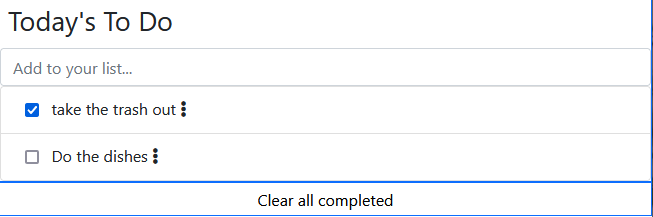
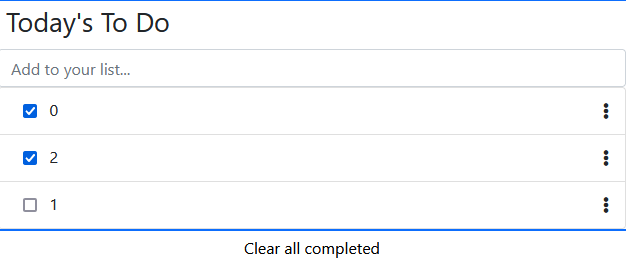
add change event listener

Changed region(s): [[0.0, 0.0, 1.0, 0.9954]]

diff --git a/dist/index.bundle.js b/dist/index.bundle.js
@@ -1,238 +1,1 @@
-/*
- * ATTENTION: The "eval" devtool has been used (maybe by default in mode: "development").
- * This devtool is neither made for production nor for readable output files.
- * It uses "eval()" calls to create a separate source file in the browser devtools.
- * If you are trying to read the output file, select a different devtool (https://webpack.js.org/configuration/devtool/)
- * or disable the default devtool with "devtool: false".
- * If you are looking for production-ready output files, see mode: "production" (https://webpack.js.org/configuration/mode/).
- */
-/******/ (() => { // webpackBootstrap
-/******/ 	"use strict";
-/******/ 	var __webpack_modules__ = ({
-
-/***/ "./node_modules/css-loader/dist/cjs.js!./src/style.css":
-/*!*************************************************************!*\
-  !*** ./node_modules/css-loader/dist/cjs.js!./src/style.css ***!
-  \*************************************************************/
-/***/ ((module, __webpack_exports__, __webpack_require__) => {
-
-eval("__webpack_require__.r(__webpack_exports__);\n/* harmony export */ __webpack_require__.d(__webpack_exports__, {\n/* harmony export */   \"default\": () => (__WEBPACK_DEFAULT_EXPORT__)\n/* harmony export */ });\n/* harmony import */ var _node_modules_css_loader_dist_runtime_api_js__WEBPACK_IMPORTED_MODULE_0__ = __webpack_require__(/*! ../node_modules/css-loader/dist/runtime/api.js */ \"./node_modules/css-loader/dist/runtime/api.js\");\n/* harmony import */ var _node_modules_css_loader_dist_runtime_api_js__WEBPACK_IMPORTED_MODULE_0___default = /*#__PURE__*/__webpack_require__.n(_node_modules_css_loader_dist_runtime_api_js__WEBPACK_IMPORTED_MODULE_0__);\n// Imports\n\nvar ___CSS_LOADER_EXPORT___ = _node_modules_css_loader_dist_runtime_api_js__WEBPACK_IMPORTED_MODULE_0___default()(function(i){return i[1]});\n// Module\n___CSS_LOADER_EXPORT___.push([module.id, \"ul {\\r\\n  list-style-type: none;\\r\\n}\\r\\n\\r\\na {\\r\\n  text-decoration: none;\\r\\n  color: black;\\r\\n}\\r\\n\\r\\n.draggable {\\r\\n  cursor: move;\\r\\n}\\r\\n\\r\\n.hover {\\r\\n  background-color: gray;\\r\\n  opacity: 0.6;\\r\\n}\\r\\n\\r\\n.hover2 {\\r\\n  background-color: blue;\\r\\n  opacity: 0.6;\\r\\n}\", \"\"]);\n// Exports\n/* harmony default export */ const __WEBPACK_DEFAULT_EXPORT__ = (___CSS_LOADER_EXPORT___);\n\n\n//# sourceURL=webpack://todo-list-2.0/./src/style.css?./node_modules/css-loader/dist/cjs.js");
-
-/***/ }),
-
-/***/ "./node_modules/css-loader/dist/runtime/api.js":
-/*!*****************************************************!*\
-  !*** ./node_modules/css-loader/dist/runtime/api.js ***!
-  \*****************************************************/
-/***/ ((module) => {
-
-eval("\n\n/*\n  MIT License http://www.opensource.org/licenses/mit-license.php\n  Author Tobias Koppers @sokra\n*/\n// css base code, injected by the css-loader\n// eslint-disable-next-line func-names\nmodule.exports = function (cssWithMappingToString) {\n  var list = []; // return the list of modules as css string\n\n  list.toString = function toString() {\n    return this.map(function (item) {\n      var content = cssWithMappingToString(item);\n\n      if (item[2]) {\n        return \"@media \".concat(item[2], \" {\").concat(content, \"}\");\n      }\n\n      return content;\n    }).join(\"\");\n  }; // import a list of modules into the list\n  // eslint-disable-next-line func-names\n\n\n  list.i = function (modules, mediaQuery, dedupe) {\n    if (typeof modules === \"string\") {\n      // eslint-disable-next-line no-param-reassign\n      modules = [[null, modules, \"\"]];\n    }\n\n    var alreadyImportedModules = {};\n\n    if (dedupe) {\n      for (var i = 0; i < this.length; i++) {\n        // eslint-disable-next-line prefer-destructuring\n        var id = this[i][0];\n\n        if (id != null) {\n          alreadyImportedModules[id] = true;\n        }\n      }\n    }\n\n    for (var _i = 0; _i < modules.length; _i++) {\n      var item = [].concat(modules[_i]);\n\n      if (dedupe && alreadyImportedModules[item[0]]) {\n        // eslint-disable-next-line no-continue\n        continue;\n      }\n\n      if (mediaQuery) {\n        if (!item[2]) {\n          item[2] = mediaQuery;\n        } else {\n          item[2] = \"\".concat(mediaQuery, \" and \").concat(item[2]);\n        }\n      }\n\n      list.push(item);\n    }\n  };\n\n  return list;\n};\n\n//# sourceURL=webpack://todo-list-2.0/./node_modules/css-loader/dist/runtime/api.js?");
-
-/***/ }),
-
-/***/ "./src/style.css":
-/*!***********************!*\
-  !*** ./src/style.css ***!
-  \***********************/
-/***/ ((__unused_webpack_module, __webpack_exports__, __webpack_require__) => {
-
-eval("__webpack_require__.r(__webpack_exports__);\n/* harmony export */ __webpack_require__.d(__webpack_exports__, {\n/* harmony export */   \"default\": () => (__WEBPACK_DEFAULT_EXPORT__)\n/* harmony export */ });\n/* harmony import */ var _node_modules_style_loader_dist_runtime_injectStylesIntoStyleTag_js__WEBPACK_IMPORTED_MODULE_0__ = __webpack_require__(/*! !../node_modules/style-loader/dist/runtime/injectStylesIntoStyleTag.js */ \"./node_modules/style-loader/dist/runtime/injectStylesIntoStyleTag.js\");\n/* harmony import */ var _node_modules_style_loader_dist_runtime_injectStylesIntoStyleTag_js__WEBPACK_IMPORTED_MODULE_0___default = /*#__PURE__*/__webpack_require__.n(_node_modules_style_loader_dist_runtime_injectStylesIntoStyleTag_js__WEBPACK_IMPORTED_MODULE_0__);\n/* harmony import */ var _node_modules_style_loader_dist_runtime_styleDomAPI_js__WEBPACK_IMPORTED_MODULE_1__ = __webpack_require__(/*! !../node_modules/style-loader/dist/runtime/styleDomAPI.js */ \"./node_modules/style-loader/dist/runtime/styleDomAPI.js\");\n/* harmony import */ var _node_modules_style_loader_dist_runtime_styleDomAPI_js__WEBPACK_IMPORTED_MODULE_1___default = /*#__PURE__*/__webpack_require__.n(_node_modules_style_loader_dist_runtime_styleDomAPI_js__WEBPACK_IMPORTED_MODULE_1__);\n/* harmony import */ var _node_modules_style_loader_dist_runtime_insertBySelector_js__WEBPACK_IMPORTED_MODULE_2__ = __webpack_require__(/*! !../node_modules/style-loader/dist/runtime/insertBySelector.js */ \"./node_modules/style-loader/dist/runtime/insertBySelector.js\");\n/* harmony import */ var _node_modules_style_loader_dist_runtime_insertBySelector_js__WEBPACK_IMPORTED_MODULE_2___default = /*#__PURE__*/__webpack_require__.n(_node_modules_style_loader_dist_runtime_insertBySelector_js__WEBPACK_IMPORTED_MODULE_2__);\n/* harmony import */ var _node_modules_style_loader_dist_runtime_setAttributesWithoutAttributes_js__WEBPACK_IMPORTED_MODULE_3__ = __webpack_require__(/*! !../node_modules/style-loader/dist/runtime/setAttributesWithoutAttributes.js */ \"./node_modules/style-loader/dist/runtime/setAttributesWithoutAttributes.js\");\n/* harmony import */ var _node_modules_style_loader_dist_runtime_setAttributesWithoutAttributes_js__WEBPACK_IMPORTED_MODULE_3___default = /*#__PURE__*/__webpack_require__.n(_node_modules_style_loader_dist_runtime_setAttributesWithoutAttributes_js__WEBPACK_IMPORTED_MODULE_3__);\n/* harmony import */ var _node_modules_style_loader_dist_runtime_insertStyleElement_js__WEBPACK_IMPORTED_MODULE_4__ = __webpack_require__(/*! !../node_modules/style-loader/dist/runtime/insertStyleElement.js */ \"./node_modules/style-loader/dist/runtime/insertStyleElement.js\");\n/* harmony import */ var _node_modules_style_loader_dist_runtime_insertStyleElement_js__WEBPACK_IMPORTED_MODULE_4___default = /*#__PURE__*/__webpack_require__.n(_node_modules_style_loader_dist_runtime_insertStyleElement_js__WEBPACK_IMPORTED_MODULE_4__);\n/* harmony import */ var _node_modules_style_loader_dist_runtime_styleTagTransform_js__WEBPACK_IMPORTED_MODULE_5__ = __webpack_require__(/*! !../node_modules/style-loader/dist/runtime/styleTagTransform.js */ \"./node_modules/style-loader/dist/runtime/styleTagTransform.js\");\n/* harmony import */ var _node_modules_style_loader_dist_runtime_styleTagTransform_js__WEBPACK_IMPORTED_MODULE_5___default = /*#__PURE__*/__webpack_require__.n(_node_modules_style_loader_dist_runtime_styleTagTransform_js__WEBPACK_IMPORTED_MODULE_5__);\n/* harmony import */ var _node_modules_css_loader_dist_cjs_js_style_css__WEBPACK_IMPORTED_MODULE_6__ = __webpack_require__(/*! !!../node_modules/css-loader/dist/cjs.js!./style.css */ \"./node_modules/css-loader/dist/cjs.js!./src/style.css\");\n\n      \n      \n      \n      \n      \n      \n      \n      \n      \n\nvar options = {};\n\noptions.styleTagTransform = (_node_modules_style_loader_dist_runtime_styleTagTransform_js__WEBPACK_IMPORTED_MODULE_5___default());\noptions.setAttributes = (_node_modules_style_loader_dist_runtime_setAttributesWithoutAttributes_js__WEBPACK_IMPORTED_MODULE_3___default());\n\n      options.insert = _node_modules_style_loader_dist_runtime_insertBySelector_js__WEBPACK_IMPORTED_MODULE_2___default().bind(null, \"head\");\n    \noptions.domAPI = (_node_modules_style_loader_dist_runtime_styleDomAPI_js__WEBPACK_IMPORTED_MODULE_1___default());\noptions.insertStyleElement = (_node_modules_style_loader_dist_runtime_insertStyleElement_js__WEBPACK_IMPORTED_MODULE_4___default());\n\nvar update = _node_modules_style_loader_dist_runtime_injectStylesIntoStyleTag_js__WEBPACK_IMPORTED_MODULE_0___default()(_node_modules_css_loader_dist_cjs_js_style_css__WEBPACK_IMPORTED_MODULE_6__.default, options);\n\n\n\n\n       /* harmony default export */ const __WEBPACK_DEFAULT_EXPORT__ = (_node_modules_css_loader_dist_cjs_js_style_css__WEBPACK_IMPORTED_MODULE_6__.default && _node_modules_css_loader_dist_cjs_js_style_css__WEBPACK_IMPORTED_MODULE_6__.default.locals ? _node_modules_css_loader_dist_cjs_js_style_css__WEBPACK_IMPORTED_MODULE_6__.default.locals : undefined);\n\n\n//# sourceURL=webpack://todo-list-2.0/./src/style.css?");
-
-/***/ }),
-
-/***/ "./node_modules/style-loader/dist/runtime/injectStylesIntoStyleTag.js":
-/*!****************************************************************************!*\
-  !*** ./node_modules/style-loader/dist/runtime/injectStylesIntoStyleTag.js ***!
-  \****************************************************************************/
-/***/ ((module) => {
-
-eval("\n\nvar stylesInDom = [];\n\nfunction getIndexByIdentifier(identifier) {\n  var result = -1;\n\n  for (var i = 0; i < stylesInDom.length; i++) {\n    if (stylesInDom[i].identifier === identifier) {\n      result = i;\n      break;\n    }\n  }\n\n  return result;\n}\n\nfunction modulesToDom(list, options) {\n  var idCountMap = {};\n  var identifiers = [];\n\n  for (var i = 0; i < list.length; i++) {\n    var item = list[i];\n    var id = options.base ? item[0] + options.base : item[0];\n    var count = idCountMap[id] || 0;\n    var identifier = \"\".concat(id, \" \").concat(count);\n    idCountMap[id] = count + 1;\n    var index = getIndexByIdentifier(identifier);\n    var obj = {\n      css: item[1],\n      media: item[2],\n      sourceMap: item[3]\n    };\n\n    if (index !== -1) {\n      stylesInDom[index].references++;\n      stylesInDom[index].updater(obj);\n    } else {\n      stylesInDom.push({\n        identifier: identifier,\n        updater: addStyle(obj, options),\n        references: 1\n      });\n    }\n\n    identifiers.push(identifier);\n  }\n\n  return identifiers;\n}\n\nfunction addStyle(obj, options) {\n  var api = options.domAPI(options);\n  api.update(obj);\n  return function updateStyle(newObj) {\n    if (newObj) {\n      if (newObj.css === obj.css && newObj.media === obj.media && newObj.sourceMap === obj.sourceMap) {\n        return;\n      }\n\n      api.update(obj = newObj);\n    } else {\n      api.remove();\n    }\n  };\n}\n\nmodule.exports = function (list, options) {\n  options = options || {};\n  list = list || [];\n  var lastIdentifiers = modulesToDom(list, options);\n  return function update(newList) {\n    newList = newList || [];\n\n    for (var i = 0; i < lastIdentifiers.length; i++) {\n      var identifier = lastIdentifiers[i];\n      var index = getIndexByIdentifier(identifier);\n      stylesInDom[index].references--;\n    }\n\n    var newLastIdentifiers = modulesToDom(newList, options);\n\n    for (var _i = 0; _i < lastIdentifiers.length; _i++) {\n      var _identifier = lastIdentifiers[_i];\n\n      var _index = getIndexByIdentifier(_identifier);\n\n      if (stylesInDom[_index].references === 0) {\n        stylesInDom[_index].updater();\n\n        stylesInDom.splice(_index, 1);\n      }\n    }\n\n    lastIdentifiers = newLastIdentifiers;\n  };\n};\n\n//# sourceURL=webpack://todo-list-2.0/./node_modules/style-loader/dist/runtime/injectStylesIntoStyleTag.js?");
-
-/***/ }),
-
-/***/ "./node_modules/style-loader/dist/runtime/insertBySelector.js":
-/*!********************************************************************!*\
-  !*** ./node_modules/style-loader/dist/runtime/insertBySelector.js ***!
-  \********************************************************************/
-/***/ ((module) => {
-
-eval("\n\nvar memo = {};\n/* istanbul ignore next  */\n\nfunction getTarget(target) {\n  if (typeof memo[target] === \"undefined\") {\n    var styleTarget = document.querySelector(target); // Special case to return head of iframe instead of iframe itself\n\n    if (window.HTMLIFrameElement && styleTarget instanceof window.HTMLIFrameElement) {\n      try {\n        // This will throw an exception if access to iframe is blocked\n        // due to cross-origin restrictions\n        styleTarget = styleTarget.contentDocument.head;\n      } catch (e) {\n        // istanbul ignore next\n        styleTarget = null;\n      }\n    }\n\n    memo[target] = styleTarget;\n  }\n\n  return memo[target];\n}\n/* istanbul ignore next  */\n\n\nfunction insertBySelector(insert, style) {\n  var target = getTarget(insert);\n\n  if (!target) {\n    throw new Error(\"Couldn't find a style target. This probably means that the value for the 'insert' parameter is invalid.\");\n  }\n\n  target.appendChild(style);\n}\n\nmodule.exports = insertBySelector;\n\n//# sourceURL=webpack://todo-list-2.0/./node_modules/style-loader/dist/runtime/insertBySelector.js?");
-
-/***/ }),
-
-/***/ "./node_modules/style-loader/dist/runtime/insertStyleElement.js":
-/*!**********************************************************************!*\
-  !*** ./node_modules/style-loader/dist/runtime/insertStyleElement.js ***!
-  \**********************************************************************/
-/***/ ((module) => {
-
-eval("\n\n/* istanbul ignore next  */\nfunction insertStyleElement(options) {\n  var style = document.createElement(\"style\");\n  options.setAttributes(style, options.attributes);\n  options.insert(style);\n  return style;\n}\n\nmodule.exports = insertStyleElement;\n\n//# sourceURL=webpack://todo-list-2.0/./node_modules/style-loader/dist/runtime/insertStyleElement.js?");
-
-/***/ }),
-
-/***/ "./node_modules/style-loader/dist/runtime/setAttributesWithoutAttributes.js":
-/*!**********************************************************************************!*\
-  !*** ./node_modules/style-loader/dist/runtime/setAttributesWithoutAttributes.js ***!
-  \**********************************************************************************/
-/***/ ((module, __unused_webpack_exports, __webpack_require__) => {
-
-eval("\n\n/* istanbul ignore next  */\nfunction setAttributesWithoutAttributes(style) {\n  var nonce =  true ? __webpack_require__.nc : 0;\n\n  if (nonce) {\n    style.setAttribute(\"nonce\", nonce);\n  }\n}\n\nmodule.exports = setAttributesWithoutAttributes;\n\n//# sourceURL=webpack://todo-list-2.0/./node_modules/style-loader/dist/runtime/setAttributesWithoutAttributes.js?");
-
-/***/ }),
-
-/***/ "./node_modules/style-loader/dist/runtime/styleDomAPI.js":
-/*!***************************************************************!*\
-  !*** ./node_modules/style-loader/dist/runtime/styleDomAPI.js ***!
-  \***************************************************************/
-/***/ ((module) => {
-
-eval("\n\n/* istanbul ignore next  */\nfunction apply(style, options, obj) {\n  var css = obj.css;\n  var media = obj.media;\n  var sourceMap = obj.sourceMap;\n\n  if (media) {\n    style.setAttribute(\"media\", media);\n  } else {\n    style.removeAttribute(\"media\");\n  }\n\n  if (sourceMap && typeof btoa !== \"undefined\") {\n    css += \"\\n/*# sourceMappingURL=data:application/json;base64,\".concat(btoa(unescape(encodeURIComponent(JSON.stringify(sourceMap)))), \" */\");\n  } // For old IE\n\n  /* istanbul ignore if  */\n\n\n  options.styleTagTransform(css, style);\n}\n\nfunction removeStyleElement(style) {\n  // istanbul ignore if\n  if (style.parentNode === null) {\n    return false;\n  }\n\n  style.parentNode.removeChild(style);\n}\n/* istanbul ignore next  */\n\n\nfunction domAPI(options) {\n  var style = options.insertStyleElement(options);\n  return {\n    update: function update(obj) {\n      apply(style, options, obj);\n    },\n    remove: function remove() {\n      removeStyleElement(style);\n    }\n  };\n}\n\nmodule.exports = domAPI;\n\n//# sourceURL=webpack://todo-list-2.0/./node_modules/style-loader/dist/runtime/styleDomAPI.js?");
-
-/***/ }),
-
-/***/ "./node_modules/style-loader/dist/runtime/styleTagTransform.js":
-/*!*********************************************************************!*\
-  !*** ./node_modules/style-loader/dist/runtime/styleTagTransform.js ***!
-  \*********************************************************************/
-/***/ ((module) => {
-
-eval("\n\n/* istanbul ignore next  */\nfunction styleTagTransform(css, style) {\n  if (style.styleSheet) {\n    style.styleSheet.cssText = css;\n  } else {\n    while (style.firstChild) {\n      style.removeChild(style.firstChild);\n    }\n\n    style.appendChild(document.createTextNode(css));\n  }\n}\n\nmodule.exports = styleTagTransform;\n\n//# sourceURL=webpack://todo-list-2.0/./node_modules/style-loader/dist/runtime/styleTagTransform.js?");
-
-/***/ }),
-
-/***/ "./src/index.js":
-/*!**********************!*\
-  !*** ./src/index.js ***!
-  \**********************/
-/***/ ((__unused_webpack_module, __webpack_exports__, __webpack_require__) => {
-
-eval("__webpack_require__.r(__webpack_exports__);\n/* harmony import */ var _style_css__WEBPACK_IMPORTED_MODULE_0__ = __webpack_require__(/*! ./style.css */ \"./src/style.css\");\n/* harmony import */ var _modules_localstorage_js__WEBPACK_IMPORTED_MODULE_1__ = __webpack_require__(/*! ./modules/localstorage.js */ \"./src/modules/localstorage.js\");\n/* harmony import */ var _modules_EnterEvent_js__WEBPACK_IMPORTED_MODULE_2__ = __webpack_require__(/*! ./modules/EnterEvent.js */ \"./src/modules/EnterEvent.js\");\n\n\n\n\n(0,_modules_localstorage_js__WEBPACK_IMPORTED_MODULE_1__.getLocalstorage)();\n(0,_modules_EnterEvent_js__WEBPACK_IMPORTED_MODULE_2__.default)();\n\n//# sourceURL=webpack://todo-list-2.0/./src/index.js?");
-
-/***/ }),
-
-/***/ "./src/modules/EnterEvent.js":
-/*!***********************************!*\
-  !*** ./src/modules/EnterEvent.js ***!
-  \***********************************/
-/***/ ((__unused_webpack_module, __webpack_exports__, __webpack_require__) => {
-
-eval("__webpack_require__.r(__webpack_exports__);\n/* harmony export */ __webpack_require__.d(__webpack_exports__, {\n/* harmony export */   \"default\": () => (__WEBPACK_DEFAULT_EXPORT__)\n/* harmony export */ });\n/* harmony import */ var _showTasks_js__WEBPACK_IMPORTED_MODULE_0__ = __webpack_require__(/*! ./showTasks.js */ \"./src/modules/showTasks.js\");\n/* harmony import */ var _localstorage_js__WEBPACK_IMPORTED_MODULE_1__ = __webpack_require__(/*! ./localstorage.js */ \"./src/modules/localstorage.js\");\n/* harmony import */ var _taskClass_js__WEBPACK_IMPORTED_MODULE_2__ = __webpack_require__(/*! ./taskClass.js */ \"./src/modules/taskClass.js\");\n\n\n\n\nconst EnterEvent = () => {\n  const inputSelector = document.querySelector('#inputTask');\n\n  inputSelector.addEventListener('keypress', (e) => {\n    if (e.key === 'Enter') {\n      const task = new _taskClass_js__WEBPACK_IMPORTED_MODULE_2__.Task(inputSelector.value);\n      _taskClass_js__WEBPACK_IMPORTED_MODULE_2__.taskList.push(task);\n      (0,_showTasks_js__WEBPACK_IMPORTED_MODULE_0__.default)();\n      (0,_localstorage_js__WEBPACK_IMPORTED_MODULE_1__.saveLocalstorage)();\n      inputSelector.value = '';\n    }\n  });\n};\n\n/* harmony default export */ const __WEBPACK_DEFAULT_EXPORT__ = (EnterEvent);\n\n//# sourceURL=webpack://todo-list-2.0/./src/modules/EnterEvent.js?");
-
-/***/ }),
-
-/***/ "./src/modules/localstorage.js":
-/*!*************************************!*\
-  !*** ./src/modules/localstorage.js ***!
-  \*************************************/
-/***/ ((__unused_webpack_module, __webpack_exports__, __webpack_require__) => {
-
-eval("__webpack_require__.r(__webpack_exports__);\n/* harmony export */ __webpack_require__.d(__webpack_exports__, {\n/* harmony export */   \"getLocalstorage\": () => (/* binding */ getLocalstorage),\n/* harmony export */   \"saveLocalstorage\": () => (/* binding */ saveLocalstorage)\n/* harmony export */ });\n/* harmony import */ var _taskClass_js__WEBPACK_IMPORTED_MODULE_0__ = __webpack_require__(/*! ./taskClass.js */ \"./src/modules/taskClass.js\");\n/* harmony import */ var _showTasks_js__WEBPACK_IMPORTED_MODULE_1__ = __webpack_require__(/*! ./showTasks.js */ \"./src/modules/showTasks.js\");\n/* eslint-disable no-unused-vars */\n\n\n\nconst saveLocalstorage = () => {\n  localStorage.setItem('taskListKey', JSON.stringify(_taskClass_js__WEBPACK_IMPORTED_MODULE_0__.taskList));\n};\n\nconst getLocalstorage = () => {\n  if (localStorage.getItem('taskListKey')) {\n    const getBooks = JSON.parse(localStorage.getItem('taskListKey'));\n    getBooks.forEach((t) => {\n      _taskClass_js__WEBPACK_IMPORTED_MODULE_0__.taskList.push(t);\n    });\n    (0,_showTasks_js__WEBPACK_IMPORTED_MODULE_1__.default)();\n  }\n};\n\n\n\n//# sourceURL=webpack://todo-list-2.0/./src/modules/localstorage.js?");
-
-/***/ }),
-
-/***/ "./src/modules/showTasks.js":
-/*!**********************************!*\
-  !*** ./src/modules/showTasks.js ***!
-  \**********************************/
-/***/ ((__unused_webpack_module, __webpack_exports__, __webpack_require__) => {
-
-eval("__webpack_require__.r(__webpack_exports__);\n/* harmony export */ __webpack_require__.d(__webpack_exports__, {\n/* harmony export */   \"default\": () => (__WEBPACK_DEFAULT_EXPORT__)\n/* harmony export */ });\n/* harmony import */ var _taskClass_js__WEBPACK_IMPORTED_MODULE_0__ = __webpack_require__(/*! ./taskClass.js */ \"./src/modules/taskClass.js\");\n/* harmony import */ var _sort_js__WEBPACK_IMPORTED_MODULE_1__ = __webpack_require__(/*! ./sort.js */ \"./src/modules/sort.js\");\n/* eslint-disable import/no-cycle */\n\n\n\nconst showTasks = () => {\n  const ulSelector = document.querySelector('#taskUl');\n  ulSelector.innerHTML = '';\n  _taskClass_js__WEBPACK_IMPORTED_MODULE_0__.taskList.forEach((e) => {\n    const li = document.createElement('li');\n    if (e.completed === true) {\n      li.innerHTML = `\n      <div>\n      <input class=\"checkbox m-2\" type=\"checkbox\" id=\"${e.index} checked\">\n      <label for=\"${e.index}\">${e.description}</label>\n      </div>\n      <i class=\"fas fa-ellipsis-v\" ></i>\n      `;\n    } else {\n      li.innerHTML = `\n      <div>\n      <input class=\"checkbox m-2\" type=\"checkbox\" id=\"${e.index}\">\n      <label for=\"${e.index}\">${e.description}</label>\n      </div>\n      <i class=\"fas fa-ellipsis-v\" ></i>\n      `;\n    }\n    li.classList.add('list-group-item', 'draggable', 'droppable', 'd-flex', 'justify-content-between', 'align-items-center');\n    li.setAttribute('draggable', 'true');\n    ulSelector.appendChild(li);\n  });\n  (0,_sort_js__WEBPACK_IMPORTED_MODULE_1__.default)();\n};\n\n/* harmony default export */ const __WEBPACK_DEFAULT_EXPORT__ = (showTasks);\n\n\n//# sourceURL=webpack://todo-list-2.0/./src/modules/showTasks.js?");
-
-/***/ }),
-
-/***/ "./src/modules/sort.js":
-/*!*****************************!*\
-  !*** ./src/modules/sort.js ***!
-  \*****************************/
-/***/ ((__unused_webpack_module, __webpack_exports__, __webpack_require__) => {
-
-eval("__webpack_require__.r(__webpack_exports__);\n/* harmony export */ __webpack_require__.d(__webpack_exports__, {\n/* harmony export */   \"default\": () => (__WEBPACK_DEFAULT_EXPORT__)\n/* harmony export */ });\n/* harmony import */ var _localstorage_js__WEBPACK_IMPORTED_MODULE_0__ = __webpack_require__(/*! ./localstorage.js */ \"./src/modules/localstorage.js\");\n/* harmony import */ var _taskClass_js__WEBPACK_IMPORTED_MODULE_1__ = __webpack_require__(/*! ./taskClass.js */ \"./src/modules/taskClass.js\");\n/* harmony import */ var _showTasks_js__WEBPACK_IMPORTED_MODULE_2__ = __webpack_require__(/*! ./showTasks.js */ \"./src/modules/showTasks.js\");\n/* eslint-disable import/no-cycle */\n/* eslint-disable no-console */\n\n\n\n\nconst sorting = () => {\n  const draggables = document.querySelectorAll('.draggable');\n  let dragged = null;\n  let dropped = null;\n  draggables.forEach((e) => {\n    e.addEventListener('dragstart', () => {\n      e.classList.add('hover');\n      dragged = e.children[0].children[0].id;\n    });\n\n    e.addEventListener('dragend', () => {\n      e.classList.remove('hover');\n    });\n\n    e.addEventListener('dragenter', (event) => {\n      if (dragged !== event.target) { e.classList.add('hover2'); }\n    });\n\n    e.addEventListener('dragleave', () => {\n      e.classList.remove('hover2');\n    });\n\n    e.addEventListener('dragover', (event) => {\n      event.preventDefault();\n    });\n\n    e.addEventListener('drop', () => {\n      e.classList.remove('hover2');\n      dropped = e.children[0].children[0].id;\n      const swap = (arr, draggedIndex, droppedIndex) => {\n        const temp = arr[droppedIndex].description;\n        arr[droppedIndex].description = arr[draggedIndex].description;\n        arr[draggedIndex].description = temp;\n        const temp2 = arr[droppedIndex].completed;\n        arr[droppedIndex].completed = arr[draggedIndex].completed;\n        arr[draggedIndex].completed = temp2;\n        (0,_showTasks_js__WEBPACK_IMPORTED_MODULE_2__.default)();\n        (0,_localstorage_js__WEBPACK_IMPORTED_MODULE_0__.saveLocalstorage)();\n      };\n      if (dragged !== dropped) {\n        if (e.classList.contains('droppable')) {\n          swap(_taskClass_js__WEBPACK_IMPORTED_MODULE_1__.taskList, dragged, dropped);\n        }\n      }\n    });\n  });\n};\n\n/* harmony default export */ const __WEBPACK_DEFAULT_EXPORT__ = (sorting);\n\n//# sourceURL=webpack://todo-list-2.0/./src/modules/sort.js?");
-
-/***/ }),
-
-/***/ "./src/modules/taskClass.js":
-/*!**********************************!*\
-  !*** ./src/modules/taskClass.js ***!
-  \**********************************/
-/***/ ((__unused_webpack_module, __webpack_exports__, __webpack_require__) => {
-
-eval("__webpack_require__.r(__webpack_exports__);\n/* harmony export */ __webpack_require__.d(__webpack_exports__, {\n/* harmony export */   \"taskList\": () => (/* binding */ taskList),\n/* harmony export */   \"Task\": () => (/* binding */ Task)\n/* harmony export */ });\nconst taskList = [];\n\nclass Task {\n  constructor(description, completed = false, index = taskList.length) {\n    this.description = description;\n    this.completed = completed;\n    this.index = index;\n  }\n}\n\n\n\n//# sourceURL=webpack://todo-list-2.0/./src/modules/taskClass.js?");
-
-/***/ })
-
-/******/ 	});
-/************************************************************************/
-/******/ 	// The module cache
-/******/ 	var __webpack_module_cache__ = {};
-/******/ 	
-/******/ 	// The require function
-/******/ 	function __webpack_require__(moduleId) {
-/******/ 		// Check if module is in cache
-/******/ 		var cachedModule = __webpack_module_cache__[moduleId];
-/******/ 		if (cachedModule !== undefined) {
-/******/ 			return cachedModule.exports;
-/******/ 		}
-/******/ 		// Create a new module (and put it into the cache)
-/******/ 		var module = __webpack_module_cache__[moduleId] = {
-/******/ 			id: moduleId,
-/******/ 			// no module.loaded needed
-/******/ 			exports: {}
-/******/ 		};
-/******/ 	
-/******/ 		// Execute the module function
-/******/ 		__webpack_modules__[moduleId](module, module.exports, __webpack_require__);
-/******/ 	
-/******/ 		// Return the exports of the module
-/******/ 		return module.exports;
-/******/ 	}
-/******/ 	
-/************************************************************************/
-/******/ 	/* webpack/runtime/compat get default export */
-/******/ 	(() => {
-/******/ 		// getDefaultExport function for compatibility with non-harmony modules
-/******/ 		__webpack_require__.n = (module) => {
-/******/ 			var getter = module && module.__esModule ?
-/******/ 				() => (module['default']) :
-/******/ 				() => (module);
-/******/ 			__webpack_require__.d(getter, { a: getter });
-/******/ 			return getter;
-/******/ 		};
-/******/ 	})();
-/******/ 	
-/******/ 	/* webpack/runtime/define property getters */
-/******/ 	(() => {
-/******/ 		// define getter functions for harmony exports
-/******/ 		__webpack_require__.d = (exports, definition) => {
-/******/ 			for(var key in definition) {
-/******/ 				if(__webpack_require__.o(definition, key) && !__webpack_require__.o(exports, key)) {
-/******/ 					Object.defineProperty(exports, key, { enumerable: true, get: definition[key] });
-/******/ 				}
-/******/ 			}
-/******/ 		};
-/******/ 	})();
-/******/ 	
-/******/ 	/* webpack/runtime/hasOwnProperty shorthand */
-/******/ 	(() => {
-/******/ 		__webpack_require__.o = (obj, prop) => (Object.prototype.hasOwnProperty.call(obj, prop))
-/******/ 	})();
-/******/ 	
-/******/ 	/* webpack/runtime/make namespace object */
-/******/ 	(() => {
-/******/ 		// define __esModule on exports
-/******/ 		__webpack_require__.r = (exports) => {
-/******/ 			if(typeof Symbol !== 'undefined' && Symbol.toStringTag) {
-/******/ 				Object.defineProperty(exports, Symbol.toStringTag, { value: 'Module' });
-/******/ 			}
-/******/ 			Object.defineProperty(exports, '__esModule', { value: true });
-/******/ 		};
-/******/ 	})();
-/******/ 	
-/************************************************************************/
-/******/ 	
-/******/ 	// startup
-/******/ 	// Load entry module and return exports
-/******/ 	// This entry module can't be inlined because the eval devtool is used.
-/******/ 	var __webpack_exports__ = __webpack_require__("./src/index.js");
-/******/ 	
-/******/ })()
-;
+(()=>{"use strict";var e={426:(e,t,n)=>{n.d(t,{Z:()=>a});var r=n(645),o=n.n(r)()((function(e){return e[1]}));o.push([e.id,"ul {\r\n  list-style-type: none;\r\n}\r\n\r\na {\r\n  text-decoration: none;\r\n  color: black;\r\n}\r\n\r\n.draggable {\r\n  cursor: move;\r\n}\r\n\r\n.hover {\r\n  background-color: gray;\r\n  opacity: 0.6;\r\n}\r\n\r\n.hover2 {\r\n  background-color: blue;\r\n  opacity: 0.6;\r\n}",""]);const a=o},645:e=>{e.exports=function(e){var t=[];return t.toString=function(){return this.map((function(t){var n=e(t);return t[2]?"@media ".concat(t[2]," {").concat(n,"}"):n})).join("")},t.i=function(e,n,r){"string"==typeof e&&(e=[[null,e,""]]);var o={};if(r)for(var a=0;a<this.length;a++){var i=this[a][0];null!=i&&(o[i]=!0)}for(var s=0;s<e.length;s++){var c=[].concat(e[s]);r&&o[c[0]]||(n&&(c[2]?c[2]="".concat(n," and ").concat(c[2]):c[2]=n),t.push(c))}},t}},379:e=>{var t=[];function n(e){for(var n=-1,r=0;r<t.length;r++)if(t[r].identifier===e){n=r;break}return n}function r(e,r){for(var a={},i=[],s=0;s<e.length;s++){var c=e[s],d=r.base?c[0]+r.base:c[0],l=a[d]||0,u="".concat(d," ").concat(l);a[d]=l+1;var p=n(u),f={css:c[1],media:c[2],sourceMap:c[3]};-1!==p?(t[p].references++,t[p].updater(f)):t.push({identifier:u,updater:o(f,r),references:1}),i.push(u)}return i}function o(e,t){var n=t.domAPI(t);return n.update(e),function(t){if(t){if(t.css===e.css&&t.media===e.media&&t.sourceMap===e.sourceMap)return;n.update(e=t)}else n.remove()}}e.exports=function(e,o){var a=r(e=e||[],o=o||{});return function(e){e=e||[];for(var i=0;i<a.length;i++){var s=n(a[i]);t[s].references--}for(var c=r(e,o),d=0;d<a.length;d++){var l=n(a[d]);0===t[l].references&&(t[l].updater(),t.splice(l,1))}a=c}}},569:e=>{var t={};e.exports=function(e,n){var r=function(e){if(void 0===t[e]){var n=document.querySelector(e);if(window.HTMLIFrameElement&&n instanceof window.HTMLIFrameElement)try{n=n.contentDocument.head}catch(e){n=null}t[e]=n}return t[e]}(e);if(!r)throw new Error("Couldn't find a style target. This probably means that the value for the 'insert' parameter is invalid.");r.appendChild(n)}},216:e=>{e.exports=function(e){var t=document.createElement("style");return e.setAttributes(t,e.attributes),e.insert(t),t}},565:(e,t,n)=>{e.exports=function(e){var t=n.nc;t&&e.setAttribute("nonce",t)}},795:e=>{e.exports=function(e){var t=e.insertStyleElement(e);return{update:function(n){!function(e,t,n){var r=n.css,o=n.media,a=n.sourceMap;o?e.setAttribute("media",o):e.removeAttribute("media"),a&&"undefined"!=typeof btoa&&(r+="\n/*# sourceMappingURL=data:application/json;base64,".concat(btoa(unescape(encodeURIComponent(JSON.stringify(a))))," */")),t.styleTagTransform(r,e)}(t,e,n)},remove:function(){!function(e){if(null===e.parentNode)return!1;e.parentNode.removeChild(e)}(t)}}}},589:e=>{e.exports=function(e,t){if(t.styleSheet)t.styleSheet.cssText=e;else{for(;t.firstChild;)t.removeChild(t.firstChild);t.appendChild(document.createTextNode(e))}}}},t={};function n(r){var o=t[r];if(void 0!==o)return o.exports;var a=t[r]={id:r,exports:{}};return e[r](a,a.exports,n),a.exports}n.n=e=>{var t=e&&e.__esModule?()=>e.default:()=>e;return n.d(t,{a:t}),t},n.d=(e,t)=>{for(var r in t)n.o(t,r)&&!n.o(e,r)&&Object.defineProperty(e,r,{enumerable:!0,get:t[r]})},n.o=(e,t)=>Object.prototype.hasOwnProperty.call(e,t),(()=>{var e=n(379),t=n.n(e),r=n(795),o=n.n(r),a=n(569),i=n.n(a),s=n(565),c=n.n(s),d=n(216),l=n.n(d),u=n(589),p=n.n(u),f=n(426),v={};v.styleTagTransform=p(),v.setAttributes=c(),v.insert=i().bind(null,"head"),v.domAPI=o(),v.insertStyleElement=l(),t()(f.Z,v),f.Z&&f.Z.locals&&f.Z.locals;const h=[];class m{constructor(e,t=!1,n=h.length){this.description=e,this.completed=t,this.index=n}}const g=()=>{const e=document.querySelector("#taskUl");e.innerHTML="",h.forEach((t=>{const n=document.createElement("li");!0===t.completed?n.innerHTML=`\n      <div>\n      <input class="checkbox m-2" type="checkbox" id="${t.index}" checked>\n      <label for="${t.index}">${t.description}</label>\n      </div>\n      <i class="fas fa-ellipsis-v" ></i>\n      `:n.innerHTML=`\n      <div>\n      <input class="checkbox m-2" type="checkbox" id="${t.index}">\n      <label for="${t.index}">${t.description}</label>\n      </div>\n      <i class="fas fa-ellipsis-v" ></i>\n      `,n.classList.add("list-group-item","draggable","droppable","d-flex","justify-content-between","align-items-center"),n.setAttribute("draggable","true"),e.appendChild(n)})),(()=>{const e=document.querySelectorAll(".draggable");let t=null,n=null;e.forEach((e=>{e.addEventListener("dragstart",(()=>{e.classList.add("hover"),t=e.children[0].children[0].id})),e.addEventListener("dragend",(()=>{e.classList.remove("hover")})),e.addEventListener("dragenter",(n=>{t!==n.target&&e.classList.add("hover2")})),e.addEventListener("dragleave",(()=>{e.classList.remove("hover2")})),e.addEventListener("dragover",(e=>{e.preventDefault()})),e.addEventListener("drop",(()=>{e.classList.remove("hover2"),n=e.children[0].children[0].id,t!==n&&e.classList.contains("droppable")&&((e,t,n)=>{const r=e[n].description;e[n].description=e[t].description,e[t].description=r;const o=e[n].completed;e[n].completed=e[t].completed,e[t].completed=o,g(),b()})(h,t,n)}))}))})(),document.querySelectorAll(".checkbox").forEach((e=>{e.addEventListener("change",(()=>{const t=e.id;e.checked?(h[t].completed=!0,b()):(h[t].completed=!1,b())}))}))},b=()=>{localStorage.setItem("taskListKey",JSON.stringify(h))};localStorage.getItem("taskListKey")&&(JSON.parse(localStorage.getItem("taskListKey")).forEach((e=>{h.push(e)})),g()),(()=>{const e=document.querySelector("#inputTask");e.addEventListener("keypress",(t=>{if("Enter"===t.key){const t=new m(e.value);h.push(t),g(),b(),e.value=""}}))})()})()})();

diff --git a/dist/index.html b/dist/index.html
@@ -1,31 +1,1 @@
-<!DOCTYPE html>
-<html lang="en">
-
-<head>
-  <meta charset="UTF-8" />
-  <meta name="viewport" content="width=device-width, initial-scale=1.0" />
-  <title>To-Do List</title>
-  <link rel="icon" type="image/png" href="favicon.ico" />
-  <link href="https://cdn.jsdelivr.net/npm/bootstrap@5.0.2/dist/css/bootstrap.min.css" rel="stylesheet"
-    integrity="sha384-EVSTQN3/azprG1Anm3QDgpJLIm9Nao0Yz1ztcQTwFspd3yD65VohhpuuCOmLASjC" crossorigin="anonymous" />
-  <script src="https://cdn.jsdelivr.net/npm/bootstrap@5.0.2/dist/js/bootstrap.bundle.min.js"
-    integrity="sha384-MrcW6ZMFYlzcLA8Nl+NtUVF0sA7MsXsP1UyJoMp4YLEuNSfAP+JcXn/tWtIaxVXM"
-    crossorigin="anonymous"></script>
-  <link rel="stylesheet" href="https://use.fontawesome.com/releases/v5.15.3/css/all.css"
-    integrity="sha384-SZXxX4whJ79/gErwcOYf+zWLeJdY/qpuqC4cAa9rOGUstPomtqpuNWT9wdPEn2fk" crossorigin="anonymous" />
-<script defer src="index.bundle.js"></script></head>
-
-<body>
-  <div class="border border-primary">
-    <h2 class="py-1 mx-2">Today's To Do</h2>
-    <div class="d-flex">
-      <input type="text" class="form-control" id="inputTask" placeholder="Add to your list..." />
-    </div>
-      <ul class="list-group" id="taskUl"></ul>
-  </div>
-  <a href="#">
-    <p class="border border-primary text-center p-1">Clear all completed</p>
-  </a>
-</body>
-
-</html>
+<!doctype html><html lang="en"><head><meta charset="UTF-8"/><meta name="viewport" content="width=device-width,initial-scale=1"/><title>To-Do List</title><link rel="icon" type="image/png" href="favicon.ico"/><link href="https://cdn.jsdelivr.net/npm/bootstrap@5.0.2/dist/css/bootstrap.min.css" rel="stylesheet" integrity="sha384-EVSTQN3/azprG1Anm3QDgpJLIm9Nao0Yz1ztcQTwFspd3yD65VohhpuuCOmLASjC" crossorigin="anonymous"/><script src="https://cdn.jsdelivr.net/npm/bootstrap@5.0.2/dist/js/bootstrap.bundle.min.js" integrity="sha384-MrcW6ZMFYlzcLA8Nl+NtUVF0sA7MsXsP1UyJoMp4YLEuNSfAP+JcXn/tWtIaxVXM" crossorigin="anonymous"></script><link rel="stylesheet" href="https://use.fontawesome.com/releases/v5.15.3/css/all.css" integrity="sha384-SZXxX4whJ79/gErwcOYf+zWLeJdY/qpuqC4cAa9rOGUstPomtqpuNWT9wdPEn2fk" crossorigin="anonymous"/><script defer="defer" src="index.bundle.js"></script></head><body><div class="border border-primary"><h2 class="py-1 mx-2">Today's To Do</h2><div class="d-flex"><input class="form-control" id="inputTask" placeholder="Add to your list..."/></div><ul class="list-group" id="taskUl"></ul></div><a href="#"><p class="border border-primary text-center p-1">Clear all completed</p></a></body></html>

diff --git a/src/modules/checkbox.js b/src/modules/checkbox.js
@@ -1,20 +1,22 @@
-// eslint-disable-next-line import/no-cycle
+/* eslint-disable import/no-cycle */
 import { saveLocalstorage } from './localstorage.js';
 import { taskList } from './taskClass.js';
 
-export default () => {
+const checkboxListener = () => {
   const checkboxes = document.querySelectorAll('.checkbox');
-  for (let i = 0; i < checkboxes.length; i += 1) {
-    checkboxes[i].addEventListener('change', () => {
-      if (checkboxes[i].checked) {
-        const index = checkboxes[i].id;
-        taskList[index].completed = true;
+  checkboxes.forEach((e) => {
+    e.addEventListener('change', () => {
+      const index2 = e.id;
+      if (e.checked) {
+        taskList[index2].completed = true;
         saveLocalstorage();
       } else {
-        const index = checkboxes[i].id;
-        taskList[index].completed = false;
+        taskList[index2].completed = false;
         saveLocalstorage();
       }
+    //   showTasks();
     });
-  }
+  });
 };
+
+export default checkboxListener;

diff --git a/src/modules/showTasks.js b/src/modules/showTasks.js
@@ -1,6 +1,7 @@
 /* eslint-disable import/no-cycle */
 import { taskList } from './taskClass.js';
 import sort from './sort.js';
+import checkbox from './checkbox.js';
 
 const showTasks = () => {
   const ulSelector = document.querySelector('#taskUl');
@@ -10,7 +11,7 @@ const showTasks = () => {
     if (e.completed === true) {
       li.innerHTML = `
       <div>
-      <input class="checkbox m-2" type="checkbox" id="${e.index} checked">
+      <input class="checkbox m-2" type="checkbox" id="${e.index}" checked>
       <label for="${e.index}">${e.description}</label>
       </div>
       <i class="fas fa-ellipsis-v" ></i>
@@ -29,6 +30,7 @@ const showTasks = () => {
     ulSelector.appendChild(li);
   });
   sort();
+  checkbox();
 };
 
 export default showTasks;

diff --git a/src/modules/sort.js b/src/modules/sort.js
@@ -1,5 +1,4 @@
 /* eslint-disable import/no-cycle */
-/* eslint-disable no-console */
 import { saveLocalstorage } from './localstorage.js';
 import { taskList } from './taskClass.js';
 import showTasks from './showTasks.js';

diff --git a/src/modules/localstorage.js b/src/modules/localstorage.js
@@ -1,4 +1,4 @@
-/* eslint-disable no-unused-vars */
+/* eslint-disable import/no-cycle */
 import { taskList } from './taskClass.js';
 import showTasks from './showTasks.js';
 
